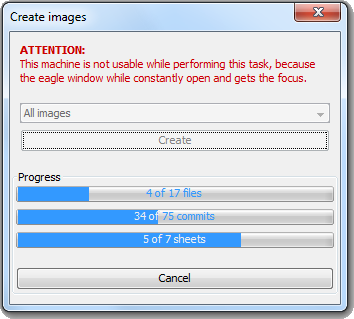
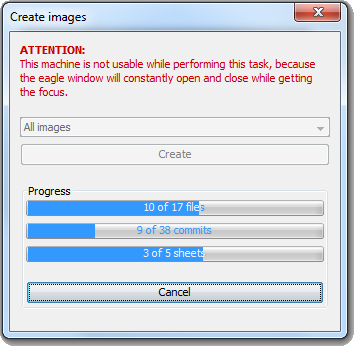
Typo correctedin CreateImagesPanel

Changed region(s): [[0.0, 0.5361, 1.0, 0.9875], [0.0, 0.0, 0.9944, 0.2821], [0.0621, 0.3103, 0.9322, 0.4796]]

diff --git a/src/de/andreasgiemza/jgeagle/panels/CreateImagesPanel.java b/src/de/andreasgiemza/jgeagle/panels/CreateImagesPanel.java
@@ -72,9 +72,10 @@ public class CreateImagesPanel extends javax.swing.JPanel {
         sheetsProgressBar = new javax.swing.JProgressBar();
         cancelButton = new javax.swing.JButton();
 
+        setPreferredSize(new java.awt.Dimension(320, 289));
+
         informationLabel.setForeground(new java.awt.Color(204, 0, 0));
-        informationLabel.setText("<html>\n<p><strong>ATTENTION:</strong></p>\n<p>This machine is not usable while performing this task, because the eagle window while constantly open and gets the focus.</p>\n</html>");
-        informationLabel.setVerticalAlignment(javax.swing.SwingConstants.TOP);
+        informationLabel.setText("<html>\n<p><strong>ATTENTION:</strong></p>\n<p>This machine is not usable while performing this task, because the eagle window will constantly open and close while getting the focus.</p>\n</html>");
 
         filetypeComboBox.setModel(new javax.swing.DefaultComboBoxModel(new String[] { "All images", "Schematic images", "Board images" }));
 
@@ -109,7 +110,7 @@ public class CreateImagesPanel extends javax.swing.JPanel {
         progressPanel.setLayout(progressPanelLayout);
         progressPanelLayout.setHorizontalGroup(
             progressPanelLayout.createParallelGroup(javax.swing.GroupLayout.Alignment.LEADING)
-            .addComponent(filesProgressBar, javax.swing.GroupLayout.DEFAULT_SIZE, 308, Short.MAX_VALUE)
+            .addComponent(filesProgressBar, javax.swing.GroupLayout.DEFAULT_SIZE, javax.swing.GroupLayout.DEFAULT_SIZE, Short.MAX_VALUE)
             .addComponent(commitsProgressBar, javax.swing.GroupLayout.DEFAULT_SIZE, javax.swing.GroupLayout.DEFAULT_SIZE, Short.MAX_VALUE)
             .addComponent(sheetsProgressBar, javax.swing.GroupLayout.DEFAULT_SIZE, javax.swing.GroupLayout.DEFAULT_SIZE, Short.MAX_VALUE)
             .addComponent(cancelButton, javax.swing.GroupLayout.DEFAULT_SIZE, javax.swing.GroupLayout.DEFAULT_SIZE, Short.MAX_VALUE)
@@ -133,11 +134,11 @@ public class CreateImagesPanel extends javax.swing.JPanel {
             .addGroup(layout.createSequentialGroup()
                 .addContainerGap()
                 .addGroup(layout.createParallelGroup(javax.swing.GroupLayout.Alignment.LEADING)
+                    .addComponent(progressPanel, javax.swing.GroupLayout.DEFAULT_SIZE, javax.swing.GroupLayout.DEFAULT_SIZE, Short.MAX_VALUE)
                     .addComponent(informationLabel, javax.swing.GroupLayout.PREFERRED_SIZE, 0, Short.MAX_VALUE)
                     .addComponent(createButton, javax.swing.GroupLayout.DEFAULT_SIZE, javax.swing.GroupLayout.DEFAULT_SIZE, Short.MAX_VALUE)
-                    .addComponent(filetypeComboBox, 0, javax.swing.GroupLayout.DEFAULT_SIZE, Short.MAX_VALUE))
+                    .addComponent(filetypeComboBox, 0, 300, Short.MAX_VALUE))
                 .addContainerGap())
-            .addComponent(progressPanel, javax.swing.GroupLayout.Alignment.TRAILING, javax.swing.GroupLayout.DEFAULT_SIZE, javax.swing.GroupLayout.DEFAULT_SIZE, Short.MAX_VALUE)
         );
         layout.setVerticalGroup(
             layout.createParallelGroup(javax.swing.GroupLayout.Alignment.LEADING)
